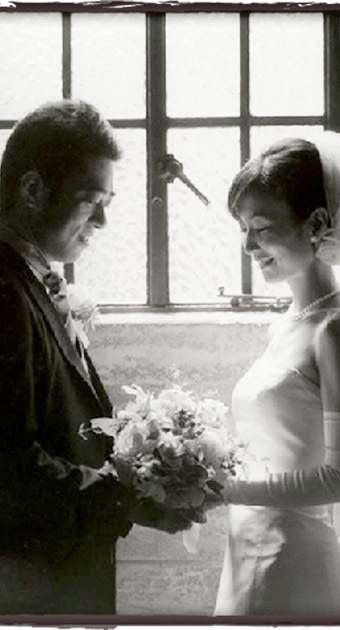
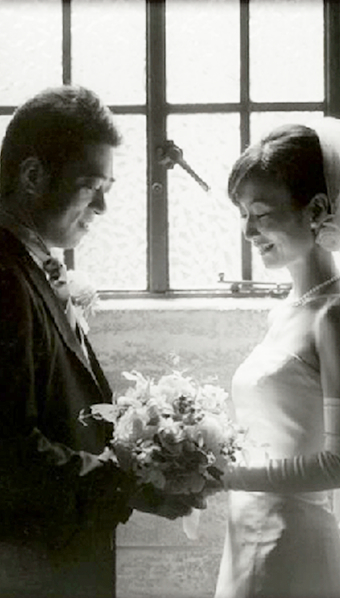
photo fix

diff --git a/js/app.min.js b/js/app.min.js
@@ -1,1 +1,1 @@
-!function(a,b,$,c){"use strict";function d(){this._events={}}c=c||{},d.prototype.checkEvent=function(a){return!!this._events[a]},d.prototype.listen=function(a,b){if(this.checkEvent(a)){var c,d=this._events[a],e=d.length;for(c=0;e>c;c++)if(d[c]===b)return;d.push(b)}else this._events[a]=[b];return this},d.prototype.removeEvent=function(a,b){if(this.checkEvent(a)){for(var c,d=this._events[a],e=d.length;e--;)d[e]===b&&(c=e);return d.splice(c,1),this}},d.prototype.fire=function(a,b){if(this.checkEvent(a)){var c,d=this._events[a],e=$.merge([],d),f=e.length,g=$.merge([],arguments);for(g.splice(0,2),c=0;f>c;c++)e[c].apply(b||this,g)}},c.EventDispatcher=d,a.yahoo=c}(this,document,jQuery,this.yahoo),function(a,b,$,c){"use strict";function d(a){this.interval=a,this.prevTime=0,this.timer=function(){}}c=c||{},d.prototype.exec=function(a){var b=+new Date,c=b-this.prevTime;clearTimeout(this.timer),c>=this.interval?(this.prevTime=b,a()):this.timer=setTimeout(a,this.interval)},c.Throttle=d,a.yahoo=c}(this,document,jQuery,this.yahoo),function(a,b,$,c){"use strict";c=c||{},c.transitionend="webkitTransitionEnd otransitionend oTransitionEnd msTransitionEnd transitionend",c.animationend="webkitAnimationEnd oanimationend oAnimationEnd msAnimationEnd animationend",a.yahoo=c}(this,document,jQuery,this.yahoo),function(a,b,$,c){"use strict";function d(){c.EventDispatcher.call(this)}function e(){return f||(f=new d),f}c=c||{};var f,g;g=d.prototype.constructor,d.prototype=new c.EventDispatcher,d.prototype.constructor=g,d.prototype.exec=function(){var b=this,d=new c.Throttle(100);$(a).on("scroll",function(){d.exec(function(){b.fire("SCROLLED",b,$(a).scrollTop())})})},c.ScrollHandler={getInstance:e},a.yahoo=c}(this,document,jQuery,this.yahoo),function(a,b,$,c){"use strict";function d(){var a;for(this.lastPlayed=-1,a=0;a<c.soundTotal;a++)h.push(new Audio("audio/"+("00"+a).slice(-2)+".mp3"))}function e(){return f||(f=new d),f}c=c||{},c.soundTotal=30;var f,g,h=[];d.prototype.play=function(a){void 0!==h[a]&&a!==this.lastPlayed&&(h[a].currentTime=0,h[a].play(),$("#right .sound-area").eq(a).addClass("popup"),$("#right .sound-area").eq(a).on(c.animationend,function(){$("#right .sound-area").eq(a).off(c.transitionend),$("#right .sound-area").eq(a).removeClass("popup")}),$("#board-container .board-on").css({display:"block",left:$("#right .ball").eq(a).css("left")}),clearTimeout(g),g=setTimeout(function(){$("#board-container .board-on").hide()},100),this.lastPlayed=a)},c.AudioPlayer={getInstance:e},a.yahoo=c}(this,document,jQuery,this.yahoo),function(a,b,$,c){"use strict";c=c||{},$(function(){var a,b=c.ScrollHandler.getInstance(),d=c.AudioPlayer.getInstance(),e=$('<p class="ball"></p>'),f=$("#board-container .board").height(),g=$("#board-container .board").height()-$("#board-container .board-on").height(),h=($("#left .photo img").height()-200)/2,i=50,j=24;for(b.listen("SCROLLED",function(a){var b=Math.floor(a/i)-1;d.play(b)}),b.exec(),a=0;a<c.soundTotal;a++)e.clone().css({top:f+i*(a+1),left:100*Math.floor(Math.random()*j)/j+"%"}).appendTo("#right");$("#left .photo img").css({marginTop:-1*h}),$("#board-container .board-on").css({top:g})}),a.yahoo=c}(this,document,jQuery,this.yahoo);
+!function(a,b,$,c){"use strict";function d(){this._events={}}c=c||{},d.prototype.checkEvent=function(a){return!!this._events[a]},d.prototype.listen=function(a,b){if(this.checkEvent(a)){var c,d=this._events[a],e=d.length;for(c=0;e>c;c++)if(d[c]===b)return;d.push(b)}else this._events[a]=[b];return this},d.prototype.removeEvent=function(a,b){if(this.checkEvent(a)){for(var c,d=this._events[a],e=d.length;e--;)d[e]===b&&(c=e);return d.splice(c,1),this}},d.prototype.fire=function(a,b){if(this.checkEvent(a)){var c,d=this._events[a],e=$.merge([],d),f=e.length,g=$.merge([],arguments);for(g.splice(0,2),c=0;f>c;c++)e[c].apply(b||this,g)}},c.EventDispatcher=d,a.yahoo=c}(this,document,jQuery,this.yahoo),function(a,b,$,c){"use strict";function d(a){this.interval=a,this.prevTime=0,this.timer=function(){}}c=c||{},d.prototype.exec=function(a){var b=+new Date,c=b-this.prevTime;clearTimeout(this.timer),c>=this.interval?(this.prevTime=b,a()):this.timer=setTimeout(a,this.interval)},c.Throttle=d,a.yahoo=c}(this,document,jQuery,this.yahoo),function(a,b,$,c){"use strict";c=c||{},c.transitionend="webkitTransitionEnd otransitionend oTransitionEnd msTransitionEnd transitionend",c.animationend="webkitAnimationEnd oanimationend oAnimationEnd msAnimationEnd animationend",a.yahoo=c}(this,document,jQuery,this.yahoo),function(a,b,$,c){"use strict";function d(){c.EventDispatcher.call(this)}function e(){return f||(f=new d),f}c=c||{};var f,g;g=d.prototype.constructor,d.prototype=new c.EventDispatcher,d.prototype.constructor=g,d.prototype.exec=function(){var b=this,d=new c.Throttle(100);$(a).on("scroll",function(){d.exec(function(){b.fire("SCROLLED",b,$(a).scrollTop())})})},c.ScrollHandler={getInstance:e},a.yahoo=c}(this,document,jQuery,this.yahoo),function(a,b,$,c){"use strict";function d(){c.EventDispatcher.call(this)}function e(){return f||(f=new d),f}c=c||{};var f,g;g=d.prototype.constructor,d.prototype=new c.EventDispatcher,d.prototype.constructor=g,d.prototype.exec=function(){var b=this,d=new c.Throttle(200);$(a).on("resize",function(){d.exec(function(){b.fire("RESIZED",b)})})},c.ResizeHandler={getInstance:e},a.yahoo=c}(this,document,jQuery,this.yahoo),function(a,b,$,c){"use strict";function d(){var a;for(this.lastPlayed=-1,a=0;a<c.soundTotal;a++)i.push(new Audio("audio/"+("00"+a).slice(-2)+".mp3"));c.EventDispatcher.call(this)}function e(){return f||(f=new d),f}c=c||{},c.soundTotal=30;var f,g,h,i=[];g=d.prototype.constructor,d.prototype=new c.EventDispatcher,d.prototype.constructor=g,d.prototype.play=function(a){void 0!==i[a]&&a!==this.lastPlayed&&(i[a].currentTime=0,i[a].play(),$("#right .sound-area").eq(a).addClass("popup"),$("#right .sound-area").eq(a).on(c.animationend,function(){$("#right .sound-area").eq(a).off(c.transitionend),$("#right .sound-area").eq(a).removeClass("popup")}),$("#board-container .board-on").css({display:"block",left:$("#right .ball").eq(a).css("left")}),clearTimeout(h),h=setTimeout(function(){$("#board-container .board-on").hide()},100),this.lastPlayed=a,this.fire("AUDIO_PLAYED",this))},c.AudioPlayer={getInstance:e},a.yahoo=c}(this,document,jQuery,this.yahoo),function(a,b,$,c){"use strict";function d(){this.currentPhoto=0,this.marginTop=0}function e(){return f||(f=new d),f}c=c||{};var f,g=5;d.prototype.change=function(){this.currentPhoto+=1,this.currentPhoto>=g&&(this.currentPhoto=0),$("<img>").attr({src:"img/photo/"+("00"+this.currentPhoto).slice(-2)+".jpg",alt:"写真"}).css({marginTop:this.marginTop}).addClass("show").appendTo("#left .photo")},d.prototype.setMargin=function(a){this.marginTop=a},c.Photo={getInstance:e},a.yahoo=c}(this,document,jQuery,this.yahoo),function(a,b,$,c){"use strict";c=c||{},$(function(){function a(){for(b=$("#board-container .board").height(),d=$("#board-container .board").height()-$("#board-container .board-on").height(),e=($("#left .photo img").height()-200)/2,$("#right .ball").remove(),f=0;f<c.soundTotal;f++)k.clone().css({top:b+l*(f+1),left:100*Math.floor(Math.random()*m)/m+"%"}).appendTo("#right");i.setMargin(-1*e),$("#left .photo img").css({marginTop:-1*e}),$("#board-container .board-on").css({top:d})}var b,d,e,f,g=c.ScrollHandler.getInstance(),h=c.AudioPlayer.getInstance(),i=c.Photo.getInstance(),j=c.ResizeHandler.getInstance(),k=$('<p class="ball"></p>'),l=50,m=24;g.listen("SCROLLED",function(a){var b=Math.floor(a/l)-1;h.play(b)}),h.listen("AUDIO_PLAYED",function(){i.change()}),j.listen("RESIZED",function(){console.log(1),a()}),g.exec(),j.exec(),a()}),a.yahoo=c}(this,document,jQuery,this.yahoo);

diff --git a/css/main.css b/css/main.css
@@ -1,1 +1,1 @@
-#left .logo{overflow:hidden}#left .logo:before{display:block;width:0;height:100%;content:""}body,div,dl,dt,dd,ul,ol,li,h1,h2,h3,h4,h5,h6,object,iframe,pre,code,p,blockquote,form,fieldset,legend,table,th,td,caption,tbody,tfoot,thead,article,aside,figure,footer,header,hgroup,menu,nav,section,audio,video,canvas,main{margin:0;padding:0;box-sizing:border-box}article,aside,figure,figcaption,footer,h1,h2,h3,h4,h5,h6,header,hgroup,menu,nav,section,main{display:block}html{overflow-y:scroll}html,body{width:100%;min-height:100%}body{color:#000;background:#fff;font-family:"ヒラギノ角ゴ Pro W3","Hiragino Kaku Gothic Pro","メイリオ",Meiryo,"ＭＳ Ｐゴシック",sans-serif;font-size:13px;*font-size:82%;line-height:1.5}a{color:inherit;text-decoration:none}h1,h2,h3,h4,h5,h6{font-size:100%}p{line-height:1.5}li{list-style:none}table{border-collapse:collapse;border-spacing:0;font-size:100%;font-family:inherit}caption,th,td{text-align:left;vertical-align:top;font-weight:normal}fieldset{border:none}input,textarea,select,label{margin-top:0;margin-bottom:0;padding-top:0;padding-bottom:0;font-size:100%;vertical-align:middle}label{cursor:pointer}textarea{overflow:auto}legend{display:none}::-moz-selection{background:#b3d4fc;text-shadow:none}::selection{background:#b3d4fc;text-shadow:none}img{border:none;box-sizing:border-box;vertical-align:middle}object{vertical-align:middle;outline:none}em{font-style:italic}strong{font-weight:bold}small{font-size:100%}abbr,acronym{border:none;font-variant:normal}q:before,q:after{content:""}address,caption,cite,code,dfn,var{font-weight:normal;font-style:normal}code,pre{font-family:monospace}sup{vertical-align:text-top}sub{vertical-align:text-bottom}hr{display:none}button{border:none;background:none;cursor:pointer;margin:0;padding:0}button:focus{outline:none}button ::-moz-focus-inner{border:0}*:first-child+html body,*:first-child+html br{letter-spacing:0}#wrapper{height:5000px}#main .content{width:960px;height:2112px;margin:0 auto}@-moz-keyframes popup{0%{-moz-transform:scale(1, 1);transform:scale(1, 1)}50%{-moz-transform:scale(1.3, 1.3);transform:scale(1.3, 1.3)}100%{-moz-transform:scale(1, 1);transform:scale(1, 1)}}@-webkit-keyframes popup{0%{-webkit-transform:scale(1, 1);transform:scale(1, 1)}50%{-webkit-transform:scale(1.3, 1.3);transform:scale(1.3, 1.3)}100%{-webkit-transform:scale(1, 1);transform:scale(1, 1)}}@keyframes popup{0%{-moz-transform:scale(1, 1);-ms-transform:scale(1, 1);-webkit-transform:scale(1, 1);transform:scale(1, 1)}50%{-moz-transform:scale(1.3, 1.3);-ms-transform:scale(1.3, 1.3);-webkit-transform:scale(1.3, 1.3);transform:scale(1.3, 1.3)}100%{-moz-transform:scale(1, 1);-ms-transform:scale(1, 1);-webkit-transform:scale(1, 1);transform:scale(1, 1)}}#left{position:fixed;top:0;bottom:0;left:0;width:calc( ( 100% - 960px ) / 2 );height:2000px;background:#000a3c}#left .logo{width:100%;height:200px;background:url('../img/common/logo.png?1414829972') no-repeat center;background-size:80% auto}#left .photo-container{height:1280px;background:url('../img/orgel/bg.jpg?1414829972') no-repeat center;background-size:cover}#left .photo-container .photo{height:300px;overflow:hidden;position:relative}#left .photo-container .photo img{position:absolute;width:100%}#right-bg{position:fixed;top:0;right:0;width:calc( ( 100% - 960px ) / 2 );height:1000px;background:url('../img/orgel/bg.jpg?1414829972') no-repeat center;background-size:cover}#right{position:absolute;top:0;right:0;bottom:0;width:calc( ( 100% - 960px ) / 2 );height:2200px;overflow:hidden}#right .ball{position:absolute;width:13px;height:13px;margin-left:-2px;background:url('../img/orgel/ball.png?1414829972') no-repeat center;background-size:contain}#board-container{position:fixed;top:0;right:0;bottom:0;width:calc( ( 100% - 960px ) / 2 );overflow-x:hidden}#board-container .board{box-shadow:0 0 40px 10px #000}#board-container .board img{width:100%}#board-container .board-on{display:none;position:absolute;width:4.16667%}#board-container .board-on img{width:100%}
+#left .logo{overflow:hidden}#left .logo:before{display:block;width:0;height:100%;content:""}body,div,dl,dt,dd,ul,ol,li,h1,h2,h3,h4,h5,h6,object,iframe,pre,code,p,blockquote,form,fieldset,legend,table,th,td,caption,tbody,tfoot,thead,article,aside,figure,footer,header,hgroup,menu,nav,section,audio,video,canvas,main{margin:0;padding:0;box-sizing:border-box}article,aside,figure,figcaption,footer,h1,h2,h3,h4,h5,h6,header,hgroup,menu,nav,section,main{display:block}html{overflow-y:scroll}html,body{width:100%;min-height:100%}body{color:#000;background:#fff;font-family:"ヒラギノ角ゴ Pro W3","Hiragino Kaku Gothic Pro","メイリオ",Meiryo,"ＭＳ Ｐゴシック",sans-serif;font-size:13px;*font-size:82%;line-height:1.5}a{color:inherit;text-decoration:none}h1,h2,h3,h4,h5,h6{font-size:100%}p{line-height:1.5}li{list-style:none}table{border-collapse:collapse;border-spacing:0;font-size:100%;font-family:inherit}caption,th,td{text-align:left;vertical-align:top;font-weight:normal}fieldset{border:none}input,textarea,select,label{margin-top:0;margin-bottom:0;padding-top:0;padding-bottom:0;font-size:100%;vertical-align:middle}label{cursor:pointer}textarea{overflow:auto}legend{display:none}::-moz-selection{background:#b3d4fc;text-shadow:none}::selection{background:#b3d4fc;text-shadow:none}img{border:none;box-sizing:border-box;vertical-align:middle}object{vertical-align:middle;outline:none}em{font-style:italic}strong{font-weight:bold}small{font-size:100%}abbr,acronym{border:none;font-variant:normal}q:before,q:after{content:""}address,caption,cite,code,dfn,var{font-weight:normal;font-style:normal}code,pre{font-family:monospace}sup{vertical-align:text-top}sub{vertical-align:text-bottom}hr{display:none}button{border:none;background:none;cursor:pointer;margin:0;padding:0}button:focus{outline:none}button ::-moz-focus-inner{border:0}*:first-child+html body,*:first-child+html br{letter-spacing:0}#wrapper{height:5000px}#main .content{width:960px;height:2112px;margin:0 auto}@-moz-keyframes photo_show{0%{opacity:0;top:30px}100%{opacity:1;top:0}}@-webkit-keyframes photo_show{0%{opacity:0;top:30px}100%{opacity:1;top:0}}@keyframes photo_show{0%{opacity:0;top:30px}100%{opacity:1;top:0}}#left{position:fixed;top:0;bottom:0;left:0;width:calc( ( 100% - 960px ) / 2 );height:2000px;background:#000a3c}#left .logo{width:100%;height:200px;background:url('../img/common/logo.png?1414831746') no-repeat center;background-size:80% auto}#left .photo-container{height:1280px;background:url('../img/orgel/bg.jpg?1414831746') no-repeat center;background-size:cover}#left .photo-container .photo{height:300px;overflow:hidden;position:relative}#left .photo-container .photo img{position:absolute;width:100%;opacity:0}#left .photo-container .photo img.show{-moz-animation:photo_show 0.5s ease 0s forwards;-webkit-animation:photo_show 0.5s ease 0s forwards;animation:photo_show 0.5s ease 0s forwards}#right-bg{position:fixed;top:0;right:0;width:calc( ( 100% - 960px ) / 2 );height:1000px;background:url('../img/orgel/bg.jpg?1414831746') no-repeat center;background-size:cover}#right{position:absolute;top:0;right:0;bottom:0;width:calc( ( 100% - 960px ) / 2 );height:2200px;overflow:hidden}#right .ball{position:absolute;width:13px;height:13px;margin-left:-2px;background:url('../img/orgel/ball.png?1414831746') no-repeat center;background-size:contain}#board-container{position:fixed;top:0;right:0;bottom:0;width:calc( ( 100% - 960px ) / 2 );overflow-x:hidden}#board-container .board{box-shadow:0 0 40px 10px #000}#board-container .board img{width:100%}#board-container .board-on{display:none;position:absolute;width:4.16667%}#board-container .board-on img{width:100%}

diff --git a/js/app.js b/js/app.js
@@ -162,9 +162,61 @@
 ( function( global, doc, $, ns ) {
   'use strict';
   ns = ns || {};
+  var	instance;
+  var originalConstructor;
+
+  /*-------------------------------------------
+    PUBLIC
+  -------------------------------------------*/
+	function ResizeHandler(){
+    ns.EventDispatcher.call( this );
+ 	}
+
+  /*-------------------------------------------
+    INHERIT
+  -------------------------------------------*/
+  originalConstructor = ResizeHandler.prototype.constructor;
+  ResizeHandler.prototype = new ns.EventDispatcher();
+  ResizeHandler.prototype.constructor = originalConstructor;
+
+  /*-------------------------------------------
+    PRIVATE
+  -------------------------------------------*/
+  ResizeHandler.prototype.exec = function(){
+    var _this = this;
+    var throttle = new ns.Throttle( 200 );
+
+    $( global ).on( 'resize', function(){
+      throttle.exec( function(){
+        _this.fire( 'RESIZED', _this );
+      } );
+    } );
+  };
+
+  /*-------------------------------------------
+    EXPORT (singleton)
+  -------------------------------------------*/
+  function _getInstance(){
+    if (!instance) {
+      instance = new ResizeHandler();
+    }
+    return instance;
+  }
+
+  ns.ResizeHandler = {
+    getInstance: _getInstance
+  };
+
+	global.yahoo = ns;
+})( this, document, jQuery, this.yahoo );
+
+( function( global, doc, $, ns ) {
+  'use strict';
+  ns = ns || {};
   ns.soundTotal = 30;
 
   var	instance;
+  var originalConstructor;
   var sound = [];
   var timeout;
 
@@ -179,7 +231,16 @@
       sound.push( new Audio( 'audio/' + 
                              ( '00' + i ).slice( -2 ) + '.mp3' ) );
     }
+
+    ns.EventDispatcher.call( this );
  	}
+
+  /*-------------------------------------------
+    INHERIT
+  -------------------------------------------*/
+  originalConstructor = AudioPlayer.prototype.constructor;
+  AudioPlayer.prototype = new ns.EventDispatcher();
+  AudioPlayer.prototype.constructor = originalConstructor;
 
   /*-------------------------------------------
     PRIVATE
@@ -212,6 +273,7 @@
       }, 100 );
 
       this.lastPlayed = audio_index;
+      this.fire( 'AUDIO_PLAYED', this );
     }
   };
 
@@ -236,17 +298,72 @@
   'use strict';
   ns = ns || {};
 
+  var	instance;
+  var photo_total = 5;
+  /*-------------------------------------------
+    PUBLIC
+  -------------------------------------------*/
+	function Photo(){
+    this.currentPhoto = 0;
+    this.marginTop = 0;
+ 	}
+
+  /*-------------------------------------------
+    PRIVATE
+  -------------------------------------------*/
+  Photo.prototype.change = function(){
+    this.currentPhoto += 1;
+    if ( this.currentPhoto >= photo_total ){
+      this.currentPhoto = 0;
+    }
+    $( '<img>' ).attr( {
+      src: 'img/photo/' + ( '00' +
+           this.currentPhoto ).slice( -2 ) + '.jpg',
+      alt: '写真'
+    } ).
+    css( { marginTop: this.marginTop } ).
+    addClass( 'show' ).
+    appendTo( '#left .photo' );
+  };
+
+  Photo.prototype.setMargin = function( marginTop ){
+    this.marginTop = marginTop;
+  };
+
+  /*-------------------------------------------
+    EXPORT (singleton)
+  -------------------------------------------*/
+  function _getInstance(){
+    if (!instance) {
+      instance = new Photo();
+    }
+    return instance;
+  }
+
+  ns.Photo = {
+    getInstance: _getInstance
+  };
+
+	global.yahoo = ns;
+})( this, document, jQuery, this.yahoo );
+
+( function( global, doc, $, ns ) {
+  'use strict';
+  ns = ns || {};
+
   $(function() {
     var scrollHandler = ns.ScrollHandler.getInstance();
-    var audio         = ns.AudioPlayer.getInstance();
+    var audioPlayer   = ns.AudioPlayer.getInstance();
+    var photo         = ns.Photo.getInstance();
+    var resizeHandler = ns.ResizeHandler.getInstance();
+
+    var ball_offset;
+    var boardOn_offset;
+    var photo_offset;
 
     var $ball = $( '<p class="ball"></p>' );
-    var ball_offset = $( '#board-container .board' ).height();
-    var boardOn_offset = $( '#board-container .board' ).height() -
-                         $( '#board-container .board-on' ).height();
-    var photo_offset = ( $( '#left .photo img' ).height() - 200 ) / 2;
     var SCROLL_INTERVAL = 50;
-    var SOUND_TOTAL = 24;
+    var BOARD_TOTAL = 24;
     var i;
 
     /*--------------------------------
@@ -254,31 +371,53 @@
     --------------------------------*/
     scrollHandler.listen( 'SCROLLED', function( scrollTop ){
       var audio_index = Math.floor( scrollTop / SCROLL_INTERVAL ) - 1; 
-      audio.play( audio_index );
+      audioPlayer.play( audio_index );
     } );
+
+    audioPlayer.listen( 'AUDIO_PLAYED', function(){
+      photo.change();
+    } );
+
+    resizeHandler.listen( 'RESIZED', function(){
+      console.log( 1 );
+      _reset();
+    } );
+    /*--------------------------------
+      RESET 
+    --------------------------------*/
+    function _reset(){
+      ball_offset = $( '#board-container .board' ).height();
+      boardOn_offset = $( '#board-container .board' ).height() -
+                           $( '#board-container .board-on' ).height();
+      photo_offset = ( $( '#left .photo img' ).height() - 200 ) / 2;
+
+      // SET RIGHT CONTAINER
+      $( '#right .ball' ).remove();
+      for ( i = 0; i < ns.soundTotal; i++ ){
+        $ball.clone().
+          css( {
+            top: ball_offset + SCROLL_INTERVAL * ( i + 1 ),
+            left: ( 100 * Math.floor( Math.random() * 
+                  BOARD_TOTAL ) / BOARD_TOTAL ) + '%'
+          } ).
+          appendTo( '#right' );
+      }
+
+      photo.setMargin( -1 * photo_offset );
+      $( '#left .photo img' ).css( {
+        marginTop: -1 * photo_offset
+      } );
+      $( '#board-container .board-on' ).css( {
+        top: boardOn_offset
+      } );
+    }
 
     /*--------------------------------
       INIT
     --------------------------------*/
     scrollHandler.exec();
-
-    // SET LEFT CONTAINER
-    for ( i = 0; i < ns.soundTotal; i++ ){
-      $ball.clone().
-        css( {
-          top: ball_offset + SCROLL_INTERVAL * ( i + 1 ),
-          left: ( 100 * Math.floor( Math.random() * 
-                SOUND_TOTAL ) / SOUND_TOTAL ) + '%'
-        } ).
-        appendTo( '#right' );
-    }
-
-    $( '#left .photo img' ).css( {
-      marginTop: -1 * photo_offset
-    } );
-    $( '#board-container .board-on' ).css( {
-      top: boardOn_offset
-    } );
+    resizeHandler.exec();
+    _reset();
   });
   global.yahoo = ns;
 })( this, document, jQuery, this.yahoo );

diff --git a/index.html b/index.html
@@ -29,7 +29,7 @@
       <div id="left">
         <h1 class="logo">The PREMIUM MEMORY</h1>
         <div class="photo-container">
-          <p class="photo"><img src="img/photo/00.jpg" alt="写真"></p>
+          <p class="photo"><img src="img/photo/00.jpg" alt="写真" class="show"></p>
         </div>
       </div>
       <div id="right-bg"></div>
